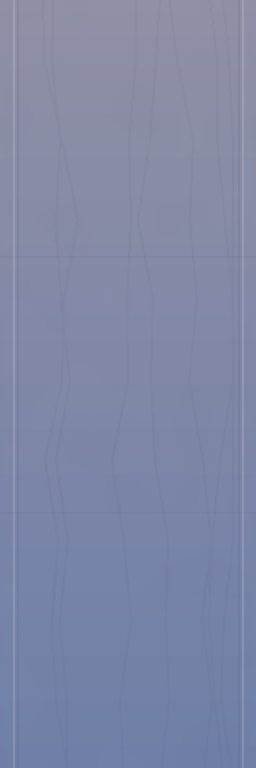
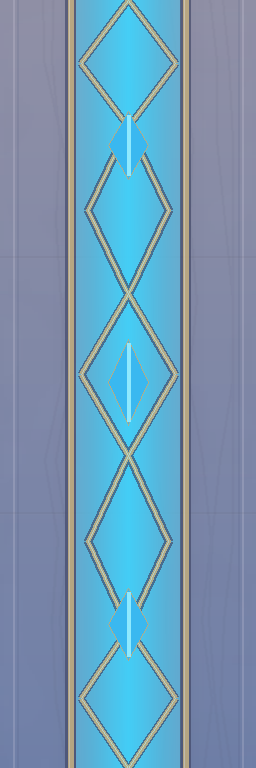
feat(fracture): add crystalline gothic wall cores

diff --git a/HiddenWeight/Assets/Tests/EditMode/FractureTraversalAssetTests.cs b/HiddenWeight/Assets/Tests/EditMode/FractureTraversalAssetTests.cs
@@ -85,6 +85,34 @@ namespace HiddenWeight.Tests
         }
 
         [Test]
+        public void Fracture_WallMiddle은_결정코어와_고딕세로장식이_있다()
+        {
+            const string assetPath =
+                TerrainRoot + "/Fracture_TraversalWallMiddle_v3.png";
+            string fullPath = Path.Combine(Application.dataPath, "..", assetPath);
+            var texture = new Texture2D(2, 2, TextureFormat.RGBA32, false);
+            Assert.IsTrue(ImageConversion.LoadImage(
+                texture, File.ReadAllBytes(fullPath)), assetPath);
+
+            Color32[] pixels = texture.GetPixels32();
+            int brightCyan = pixels.Count(pixel => pixel.a > 0
+                && pixel.b - pixel.r >= 50
+                && pixel.g - pixel.r >= 25
+                && pixel.g >= 165
+                && pixel.b >= 200);
+            int warmMetal = pixels.Count(pixel => pixel.a > 0
+                && pixel.r >= 130
+                && pixel.r - pixel.g <= 35
+                && pixel.g - pixel.b >= 18);
+
+            Assert.Greater(brightCyan, 1000,
+                assetPath + " has no readable vertical crystal core");
+            Assert.Greater(warmMetal, 1500,
+                assetPath + " has no readable gothic vertical frame");
+            Object.DestroyImmediate(texture);
+        }
+
+        [Test]
         public void Fracture_생성씬_배경은_카메라추적_모드다()
         {
             string[] rooms =
